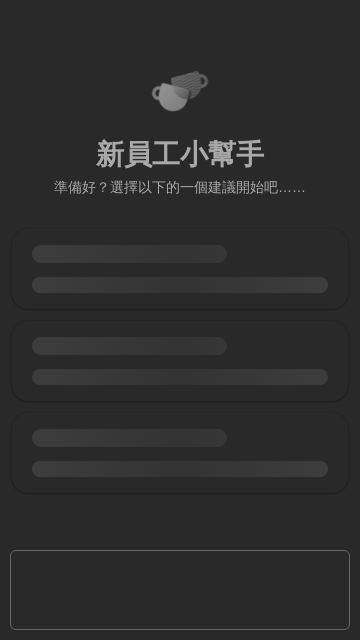
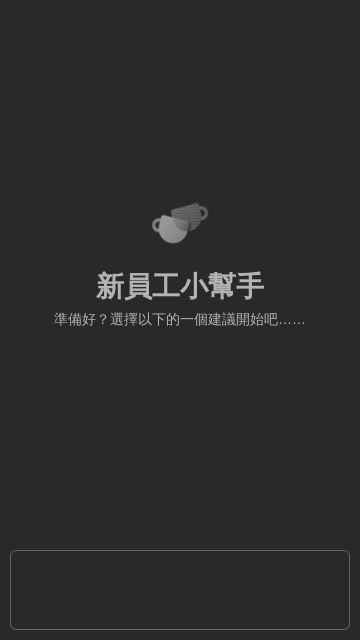
fix test and update changelog

Changed region(s): [[0.1528, 0.2188, 0.7944, 0.5312], [0.4278, 0.0938, 0.5806, 0.1875], [0.1528, 0.4688, 0.275, 0.5312]]

diff --git a/__tests__/html2/fluentTheme/uiState.blueprint.nonEnglish.html b/__tests__/html2/fluentTheme/uiState.blueprint.nonEnglish.html
@@ -184,12 +184,7 @@
           document.querySelectorAll(
             `[data-testid="${WebChat.testIds.preChatMessageActivityStarterPromptsCardAction}"]:not(button)`
           )
-        ).toHaveLength(3);
-
-        // THEN: Card action height should kept the same.
-        expect(
-          document.querySelector(`[data-testid="${WebChat.testIds.preChatMessageActivityStarterPromptsCardAction}"]`)
-        ).toHaveProperty('clientHeight', cardActionClientHeight);
+        ).toHaveLength(0);
 
         // THEN: Send box container height should kept the same.
         expect(document.querySelector(`[data-testid="${WebChat.testIds.sendBoxContainer}"]`)).toHaveProperty(

diff --git a/__tests__/html2/fluentTheme/uiState.html b/__tests__/html2/fluentTheme/uiState.html
@@ -207,7 +207,7 @@
           document.querySelectorAll(
             `[data-testid="${WebChat.testIds.preChatMessageActivityStarterPromptsCardAction}"]:not(button)`
           )
-        ).toHaveLength(3);
+        ).toHaveLength(0);
 
         // THEN: Should match screenshot.
         await host.snapshot('local');

diff --git a/CHANGELOG.md b/CHANGELOG.md
@@ -105,7 +105,7 @@ Notes: web developers are advised to use [`~` (tilde range)](https://github.com/
 
 ### Changed
 
-- Removed `StarterPromptsCardAction` during `blueprint` ui state
+- Removed `StarterPromptsCardAction` during `blueprint` ui state in PR [#5477](https://github.com/microsoft/BotFramework-WebChat/pull/5477), by [@jcheung824](https://github.com/jcheung824)
 - Updated `useSuggestedActions` to return the activity the suggested actions originated from, in PR [#5255](https://github.com/microsoft/BotFramework-WebChat/issues/5255), by [@compulim](https://github.com/compulim)
 - Improved focus trap implementation by preserving focus state and removing sentinels, in PR [#5243](https://github.com/microsoft/BotFramework-WebChat/pull/5243), by [@OEvgeny](https://github.com/OEvgeny)
 - Reworked pre-chat activity layout to use author entity for improved consistency and flexibility, in PR [#5274](https://github.com/microsoft/BotFramework-WebChat/pull/5274), by [@OEvgeny](https://github.com/OEvgeny)
